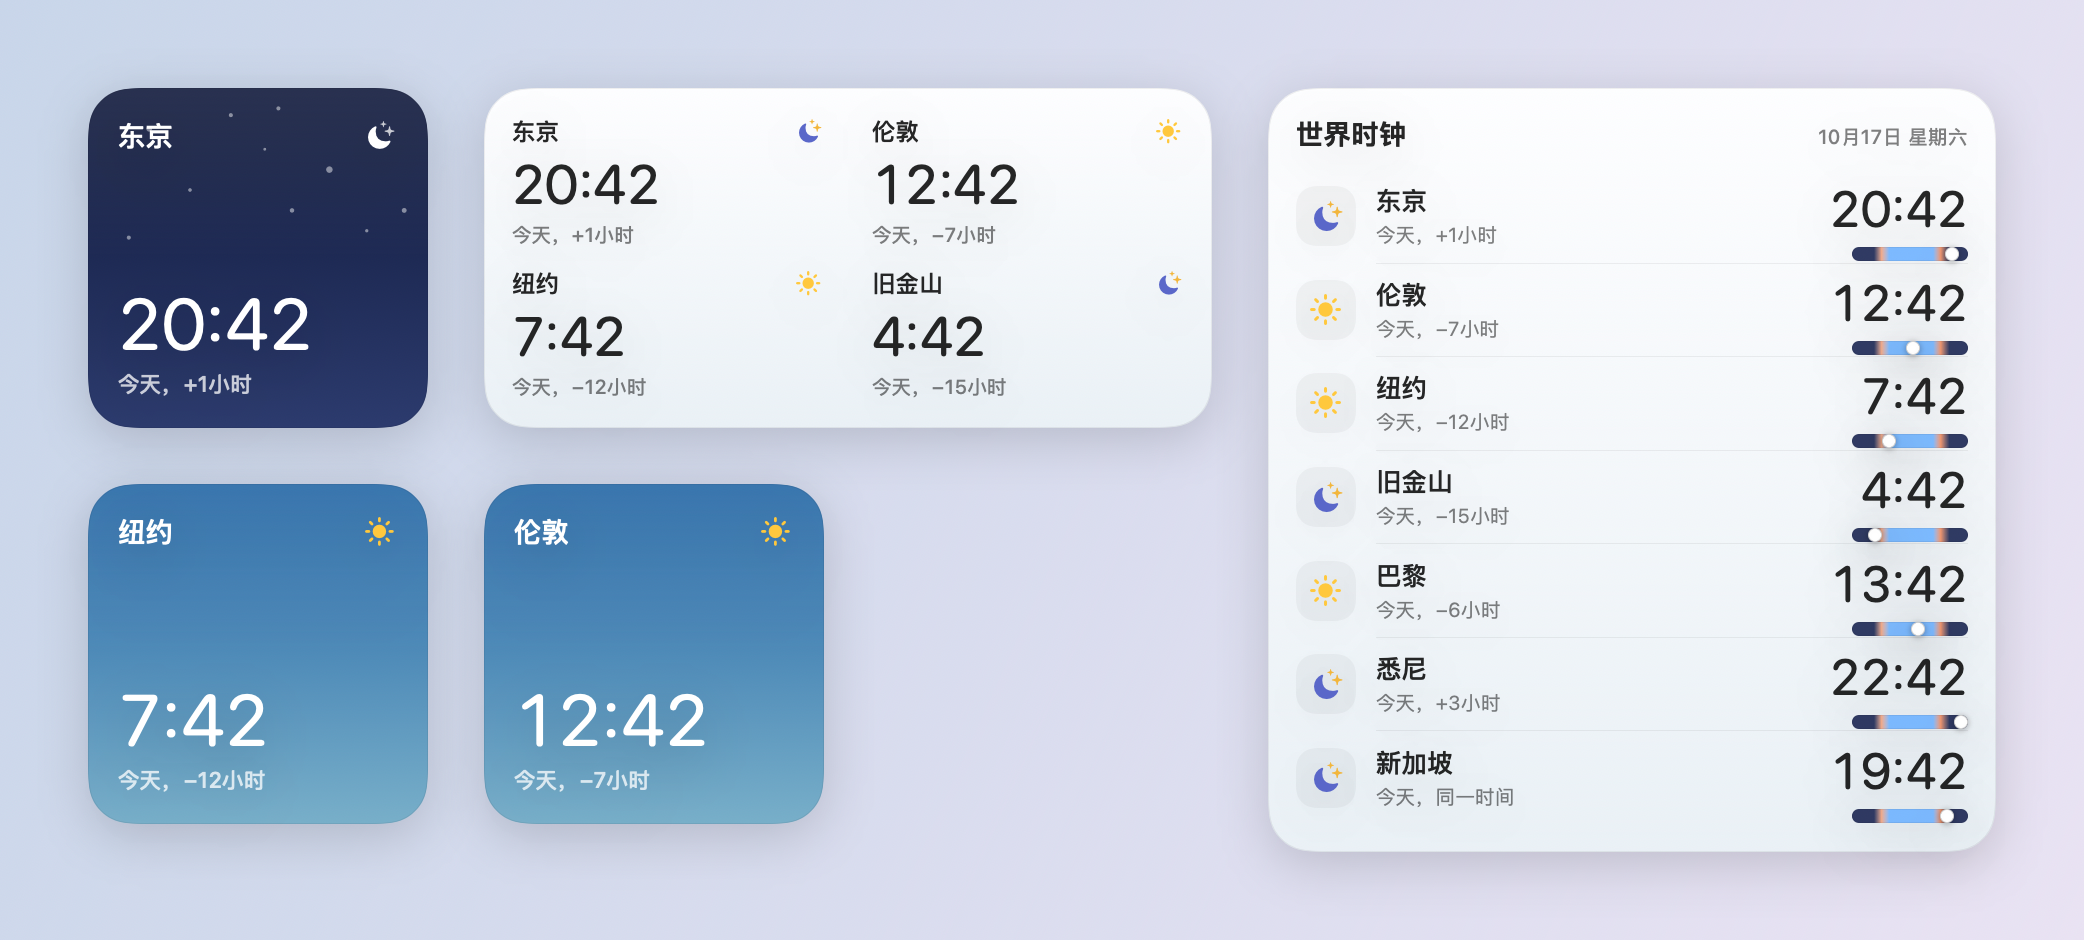
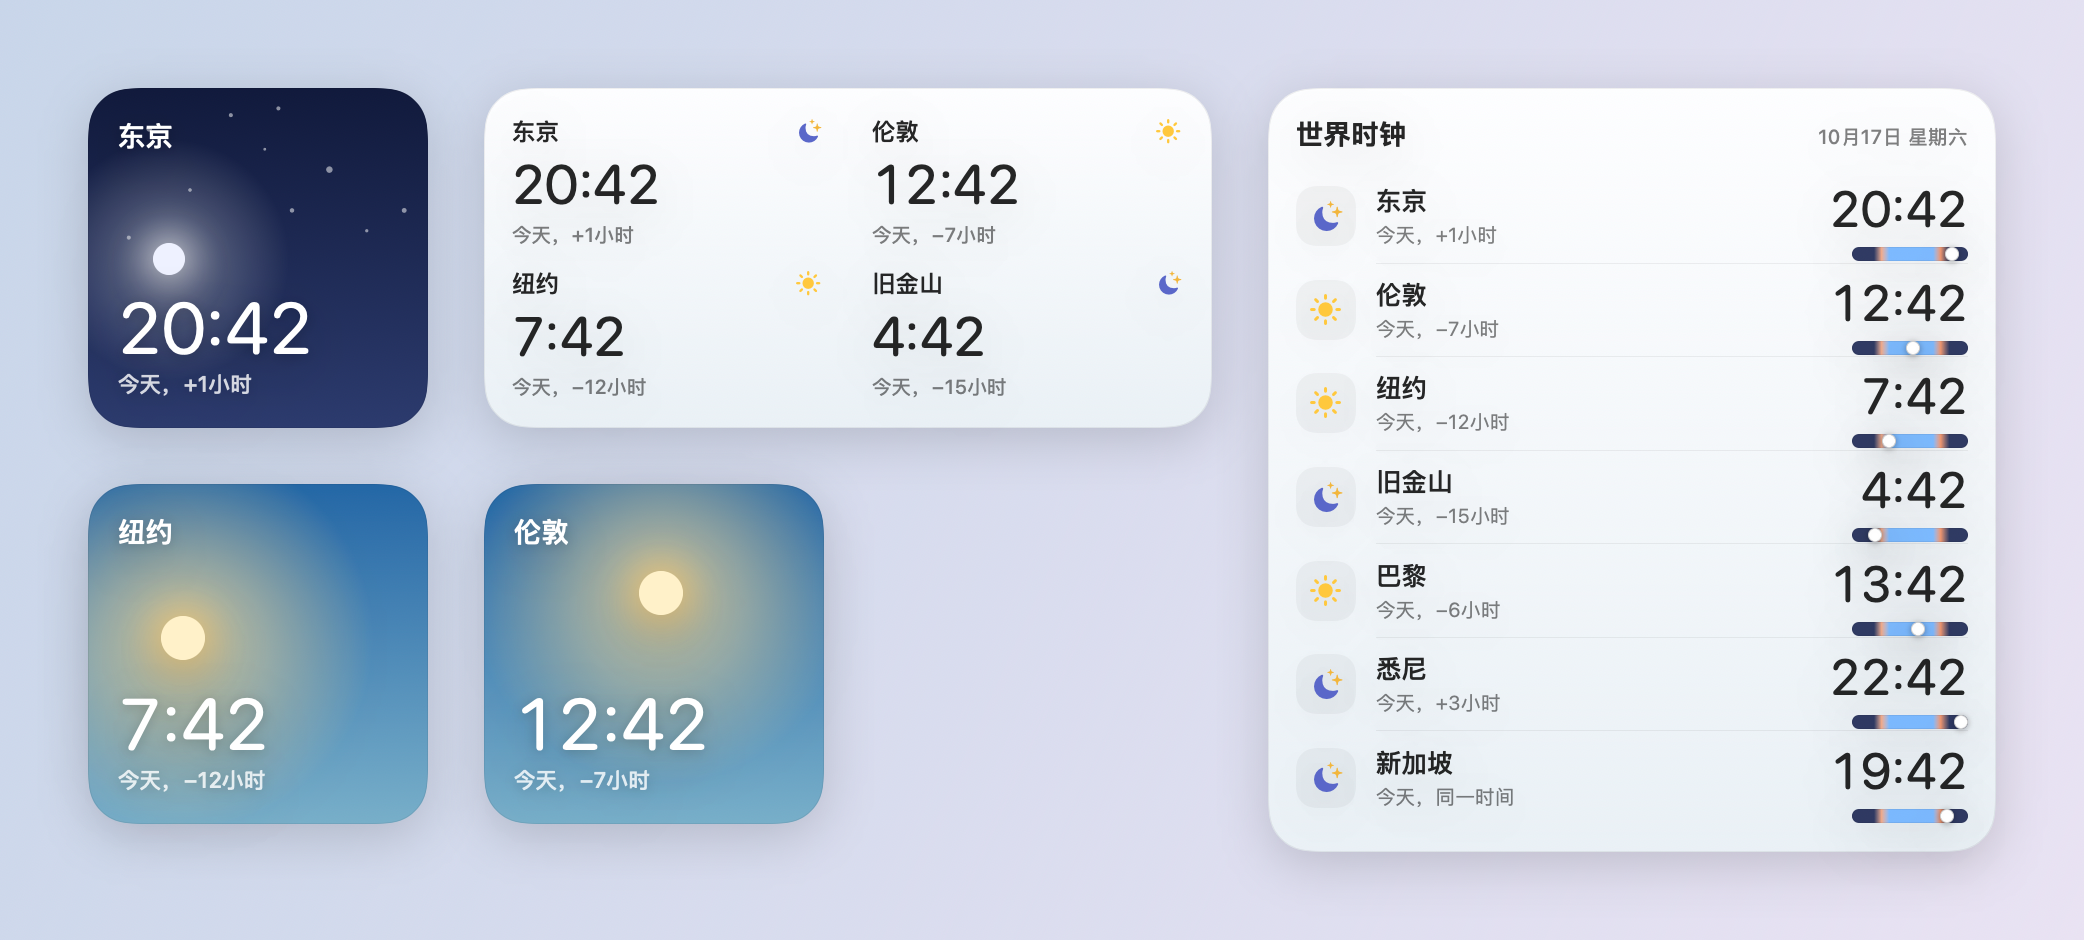
Give the small widget a glowing sun and moon
The small card's sky now has a soft sun (dawn to dusk) or moon (night) that
rises on the left and sets on the right with the city's local time. The
phase icon moves into the sky; monochrome and tinted modes, which drop the
sky, still show the icon.

SkyBody computes the path from DayPhase's sunrise/sunset minutes, so the
glow and the phase icons always agree; tests cover every minute of the day.

diff --git a/Sources/Presentation/ClockBackground.swift b/Sources/Presentation/ClockBackground.swift
@@ -8,19 +8,45 @@ struct ClockCardBackground: View {
 
     var body: some View {
         if family == .small, let clock = snapshot.clocks.first {
-            let phase = clock.phase
-            ZStack {
-                Sky.gradient(phase, dark: scheme == .dark)
-                if phase == .night { Stars().opacity(scheme == .dark ? 0.7 : 0.55) }
-                // Soft light from above, like the system's own widgets.
-                LinearGradient(colors: [.white.opacity(0.10), .clear], startPoint: .top, endPoint: .center)
-            }
+            GlowSky(clock: clock)
         } else {
             LinearGradient(
                 colors: scheme == .dark ? [Color(hex: 0x242C3A), Color(hex: 0x171D28)]
                                         : [Color(hex: 0xFCFDFE), Color(hex: 0xEAF0F5)],
                 startPoint: .top, endPoint: .bottom)
         }
+    }
+}
+
+/// The phase's sky gradient with a softly glowing sun or moon. It rises on the left,
+/// is highest mid-way and sets on the right, moving with each timeline entry.
+struct GlowSky: View {
+    let clock: CityClockState
+    @Environment(\.colorScheme) private var scheme
+
+    var body: some View {
+        GeometryReader { geo in
+            let sky = SkyBody(dayFraction: clock.dayFraction)
+            // Unit coordinates: x travels 15% → 85% of the width; y rises from 62% to 32% of the height.
+            let x = 0.15 + 0.7 * sky.progress
+            let y = 0.62 - 0.3 * sky.elevation
+            ZStack {
+                Sky.gradient(clock.phase, dark: scheme == .dark)
+                if !sky.isSun { Stars().opacity(0.6) }
+                RadialGradient(colors: [glowColor(sky).opacity(sky.isSun ? 0.75 : 0.35), .clear],
+                               center: UnitPoint(x: x, y: y),
+                               startRadius: 2, endRadius: sky.isSun ? 95 : 60)
+                Circle()
+                    .fill(sky.isSun ? Color(hex: 0xFFF1C9) : Color(hex: 0xEEF1FF))
+                    .frame(width: sky.isSun ? 22 : 16, height: sky.isSun ? 22 : 16)
+                    .shadow(color: (sky.isSun ? Color(hex: 0xFFD27A) : .white).opacity(0.9), radius: 10)
+                    .position(x: geo.size.width * x, y: geo.size.height * y)
+            }
+        }
+    }
+
+    private func glowColor(_ sky: SkyBody) -> Color {
+        sky.isSun ? Color(hex: 0xFFE3A0) : .white
     }
 }
 

diff --git a/Sources/Presentation/SmallCard.swift b/Sources/Presentation/SmallCard.swift
@@ -1,7 +1,7 @@
 import SwiftUI
 import WidgetKit
 
-/// One city on a live sky: name and phase icon at the top, then the time and one caption line.
+/// One city over a glowing sky: name at the top, then the time and one caption line.
 struct SmallCard: View {
     let clock: CityClockState
     let snapshot: ClockSnapshot
@@ -9,6 +9,8 @@ struct SmallCard: View {
     @Environment(\.widgetRenderingMode) private var renderingMode
 
     var body: some View {
+        // Monochrome and tinted modes drop the sky, so show the phase as an icon there instead.
+        let fullColor = renderingMode == .fullColor
         VStack(alignment: .leading, spacing: 0) {
             HStack(alignment: .center, spacing: 6) {
                 Text(clock.city.name(in: locale))
@@ -16,7 +18,7 @@ struct SmallCard: View {
                     .lineLimit(1)
                     .minimumScaleFactor(0.7)
                 Spacer(minLength: 0)
-                PhaseIcon(phase: clock.phase, size: 13, onSky: true)
+                if !fullColor { PhaseIcon(phase: clock.phase, size: 13) }
             }
             Spacer(minLength: 0)
             ClockTime(date: snapshot.date, zone: clock.zone, size: 36, weight: .regular, live: snapshot.live)
@@ -26,10 +28,11 @@ struct SmallCard: View {
                 .font(.system(size: 11, weight: .medium))
                 .lineLimit(1)
                 .minimumScaleFactor(0.8)
-                .opacity(0.75)
-                .padding(.top, 2)
+                .opacity(0.8)
         }
-        // White reads on the sky; tinted/monochrome modes have no sky, so use the system color.
-        .foregroundStyle(renderingMode == .fullColor ? AnyShapeStyle(Color.white) : AnyShapeStyle(.primary))
+        .frame(maxWidth: .infinity, alignment: .leading)
+        // White with a faint shadow stays readable even where the glow is brightest.
+        .foregroundStyle(fullColor ? AnyShapeStyle(Color.white) : AnyShapeStyle(.primary))
+        .shadow(color: .black.opacity(fullColor ? 0.18 : 0), radius: 3, y: 1)
     }
 }

diff --git a/Tests/ClockMathTests.swift b/Tests/ClockMathTests.swift
@@ -153,3 +153,35 @@ final class CityCatalogTests: XCTestCase {
         XCTAssertNil(CityCatalog.city(id: "nope"))
     }
 }
+
+final class SkyBodyTests: XCTestCase {
+    private func body(_ hour: Int, _ minute: Int = 0) -> SkyBody {
+        SkyBody(dayFraction: ClockMath.dayFraction(hour: hour, minute: minute))
+    }
+
+    func testSunRisesAtDawnAndSetsAtEndOfDusk() {
+        XCTAssertEqual(body(5), SkyBody(dayFraction: 5.0 / 24))
+        XCTAssertTrue(body(5).isSun)
+        XCTAssertEqual(body(5).progress, 0, accuracy: 0.0001)
+        XCTAssertTrue(body(19, 29).isSun)
+        XCTAssertFalse(body(19, 30).isSun)
+        XCTAssertEqual(body(19, 30).progress, 0, accuracy: 0.0001, "The moon rises when the sun sets")
+        XCTAssertEqual(body(4, 59).progress, 1, accuracy: 0.01)
+    }
+
+    func testHighestPointsAreMidDayAndMidNight() {
+        XCTAssertEqual(body(12, 15).progress, 0.5, accuracy: 0.0001)
+        XCTAssertEqual(body(12, 15).elevation, 1, accuracy: 0.0001)
+        XCTAssertEqual(body(0, 15).progress, 0.5, accuracy: 0.0001, "Night runs 19:30 → 05:00 across midnight")
+        XCTAssertEqual(body(5).elevation, 0, accuracy: 0.0001)
+    }
+
+    func testSunMatchesDayPhaseIconsForEveryMinute() {
+        for minute in 0..<ClockMath.minutesPerDay {
+            let hour = minute / 60, m = minute % 60
+            let sky = body(hour, m)
+            XCTAssertEqual(sky.isSun, DayPhase(hour: hour, minute: m) != .night, "\(hour):\(m)")
+            XCTAssertTrue((0...1).contains(sky.progress), "\(hour):\(m)")
+        }
+    }
+}

diff --git a/Sources/Core/SkyBody.swift b/Sources/Core/SkyBody.swift
@@ -1,0 +1,26 @@
+import Foundation
+
+/// Where the sun (from dawn to the end of dusk) or the moon (at night) is on its path across the sky.
+struct SkyBody: Equatable, Sendable {
+    let isSun: Bool
+    /// 0 when it rises, 0.5 at its highest, 1 when it sets.
+    let progress: Double
+
+    /// Height above the horizon, 0 at rise and set, 1 at the top of its path.
+    var elevation: Double { sin(.pi * progress) }
+
+    /// `dayFraction` is the fraction of the local day elapsed, 0 ..< 1.
+    init(dayFraction: Double) {
+        let minutesPerDay = Double(ClockMath.minutesPerDay)
+        let minute = dayFraction * minutesPerDay
+        let rise = Double(DayPhase.sunriseMinute), set = Double(DayPhase.sunsetMinute)
+        isSun = minute >= rise && minute < set
+        if isSun {
+            progress = (minute - rise) / (set - rise)
+        } else {
+            // The night wraps past midnight: it runs from sunset to the next sunrise.
+            let sinceSunset = (minute - set + minutesPerDay).truncatingRemainder(dividingBy: minutesPerDay)
+            progress = sinceSunset / (minutesPerDay - set + rise)
+        }
+    }
+}

diff --git a/Sources/Core/DayPhase.swift b/Sources/Core/DayPhase.swift
@@ -4,12 +4,16 @@ import Foundation
 enum DayPhase: String, Sendable, CaseIterable {
     case night, dawn, day, dusk
 
+    /// Approximate clock times, not astronomical data. The sun counts as up from dawn until the end of dusk.
+    static let sunriseMinute = 5 * 60
+    static let sunsetMinute = 19 * 60 + 30
+
     init(hour: Int, minute: Int = 0) {
         let m = hour * 60 + minute
         switch m {
-        case 5 * 60 ..< 7 * 60: self = .dawn
+        case Self.sunriseMinute ..< 7 * 60: self = .dawn
         case 7 * 60 ..< 17 * 60 + 30: self = .day
-        case 17 * 60 + 30 ..< 19 * 60 + 30: self = .dusk
+        case 17 * 60 + 30 ..< Self.sunsetMinute: self = .dusk
         default: self = .night
         }
     }

diff --git a/README.md b/README.md
@@ -12,7 +12,7 @@ Built with SwiftUI, WidgetKit and App Intents. No third-party runtime dependenci
 
 ## Features
 
-- **Small:** one city on a day/night sky: name, time, and its day and time difference.
+- **Small:** one city under a sky whose glowing sun or moon rises and sets with its local time.
 - **Medium:** four cities in a 2×2 grid.
 - **Large:** seven cities with aligned times and slim 24-hour day ribbons.
 - Instant English/Chinese city search, recent selections, drag-to-reorder and live previews.
